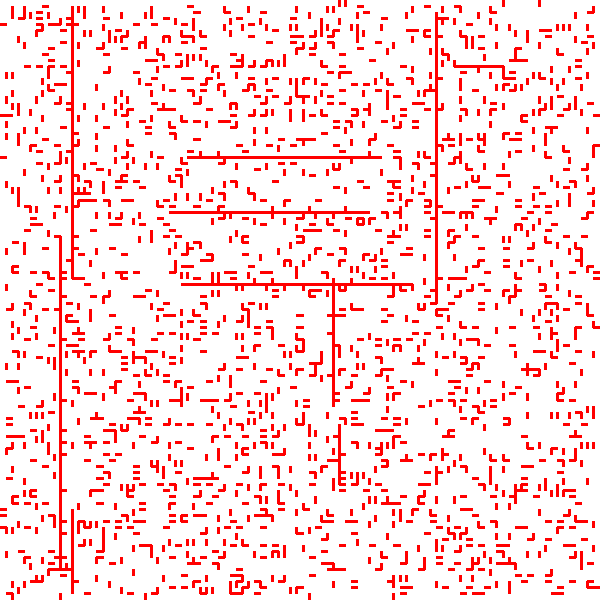
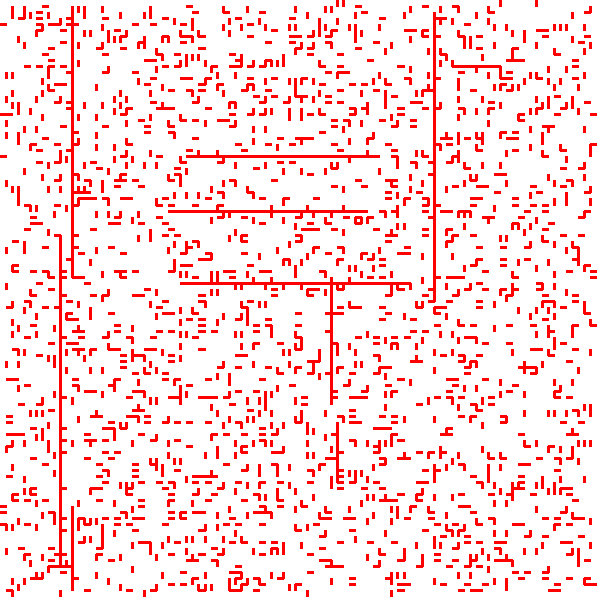
ucf, bfs

diff --git a/maze_solve.py b/maze_solve.py
@@ -32,7 +32,7 @@ class Environment:
             
             # Map image
             self.image = Image.new('RGB', (600, 600), color='white')
-            self.scale_factor = 600 / (self.N - 1)
+            self.scale_factor = 600 / (self.N - 0.5)
             draw = ImageDraw.Draw(self.image)
             
             self.start = (xs, ys)
